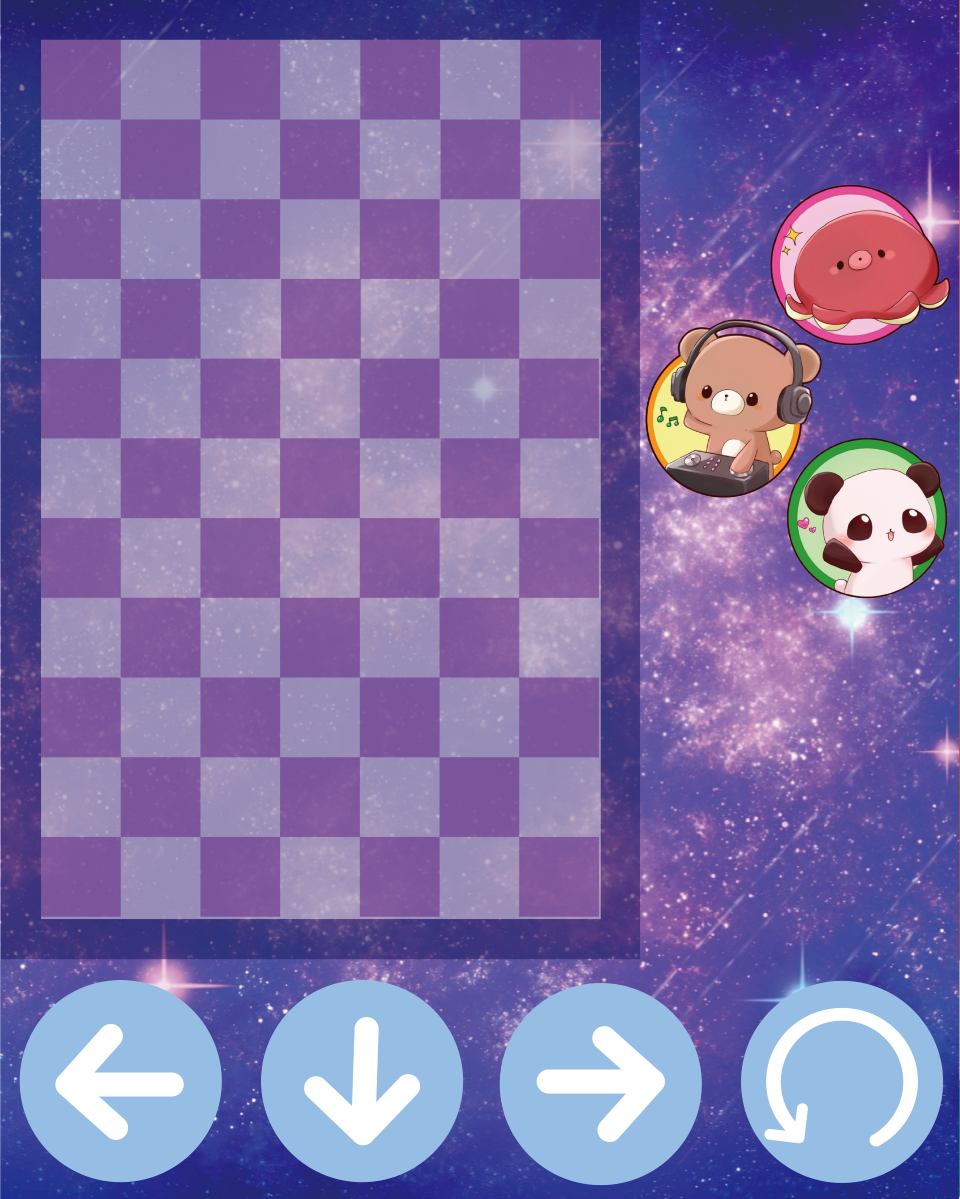
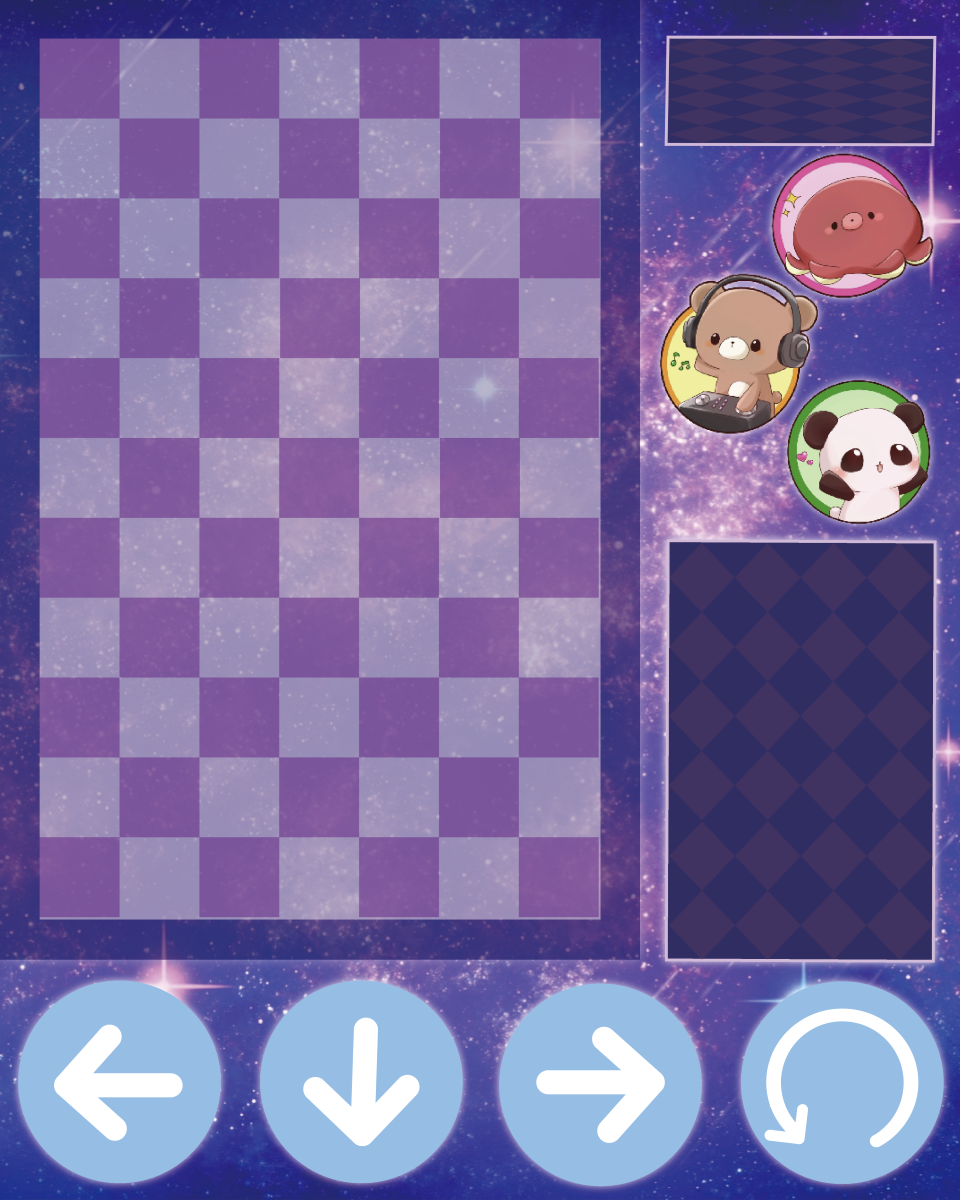
Add files via upload

diff --git a/pzl.js b/pzl.js
@@ -109,10 +109,10 @@ function initVar() {//変数の初期化
 function drawPzl() {//ゲーム画面を描く関数
     var x, y;
     drawImg(0, 0, 0);
-    for(x=0; x<3; x++) drawImg(block[3+x], 672+80*x, 50);
-    fTextN("残り時間\n"+gameTime, 800, 640, 70, 45, "white");
-    fTextN("スコア\n"+score, 800, 780, 70, 45, "white");
-    fTextN("ハイスコア\n"+hisco, 800, 910, 70, 45, "white");
+    for(x=0; x<3; x++) drawImg(block[3+x], 670+80*x, 42);
+    fTextN("残り時間\n"+gameTime, 800, 620, 70, 45, "white");
+    fTextN("スコア\n"+score, 800, 760, 70, 45, "white");
+    fTextN("ハイスコア\n"+hisco, 800, 890, 70, 45, "white");
     for(y=1; y<=11; y++) {
         for(x=1; x<=7; x++) {
             if(masu[y][x] > 0) drawImgC(masu[y][x], 80*x, 80*y);
